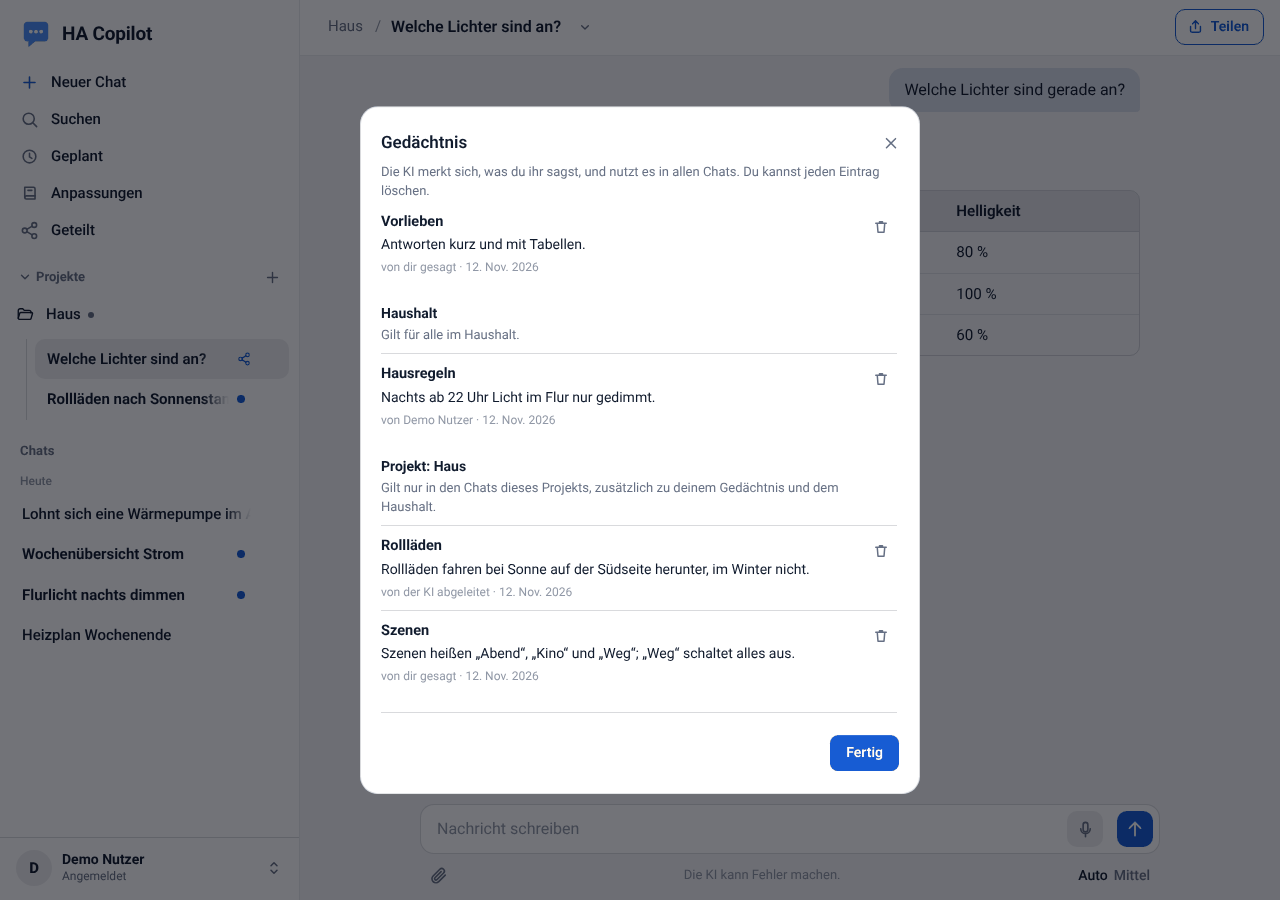
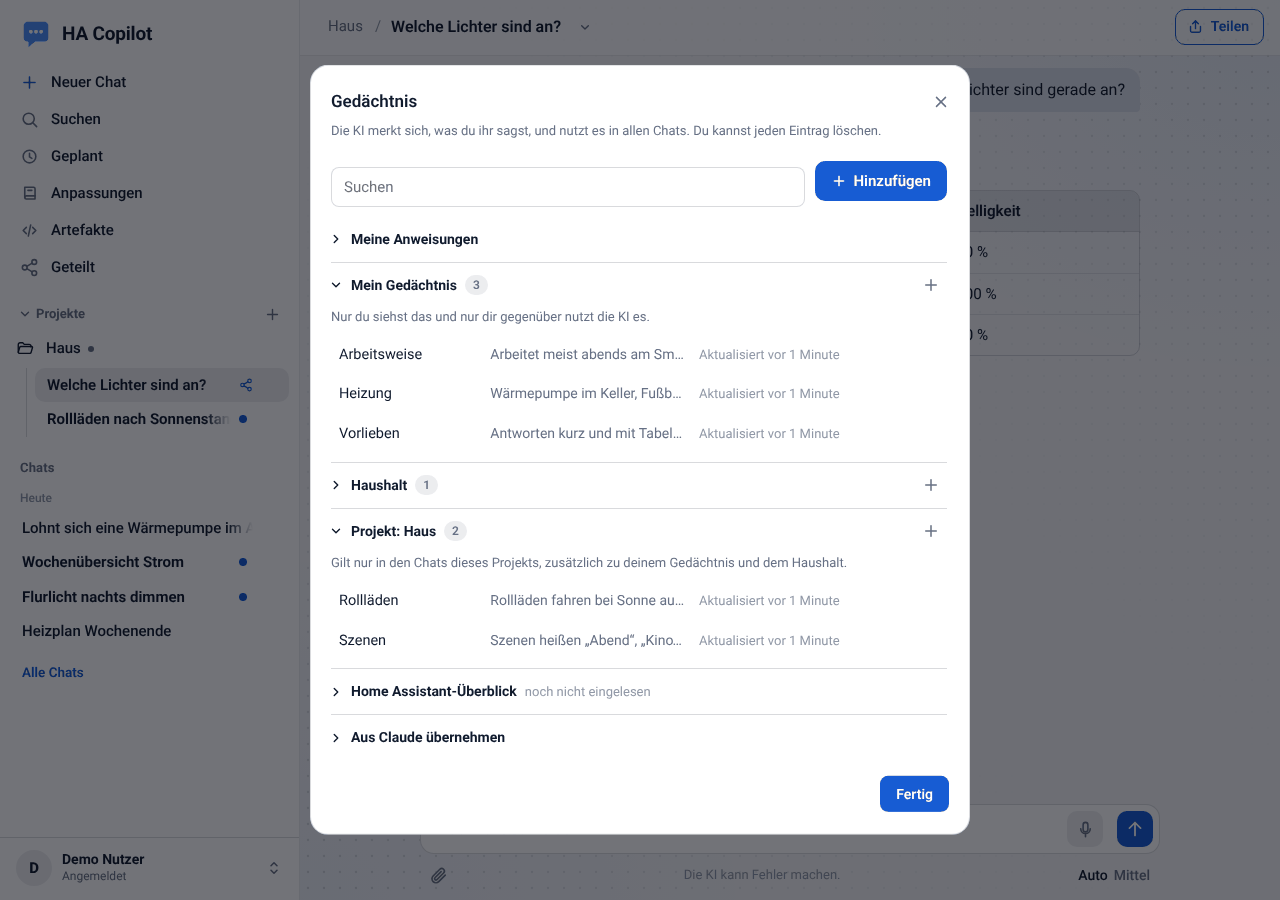
Doku: Screenshots auf Stand gebracht, neue Aufnahme der Projektansicht (0.60.3)
Gedächtnis, Gedächtnis im Projekt und Suche neu aufgenommen, projektansicht.png neu
in docs/funktionen.md. Aufnahme-Skripte angepasst (Beschreibung im Demo-Projekt,
Willkommensfenster schließen, Gedächtnis über die Suche öffnen).

Claude-Session: https://claude.ai/code/session_012H4RFtPYg4WGjcVxpmDwqL

diff --git a/tools/screenshots/capture_features.py b/tools/screenshots/capture_features.py
@@ -10,6 +10,12 @@ api("POST", "/api/schedules", {"name": "Morgenüberblick", "prompt": "Fasse jede
 api("POST", "/api/schedules", {"name": "Wochenbericht Strom", "prompt": "Fasse den Stromverbrauch der Woche zusammen und nenne Auffälligkeiten.", "freq": "weekly", "at": "18:00", "days": "4", "notify": "chat"})
 api("POST", "/api/schedules", {"name": "Erinnerung Filterwechsel", "prompt": "Erinnere mich an den Filterwechsel der Lüftung.", "freq": "monthly", "at": "09:00", "days": "1", "notify": "chat", "enabled": False})
 
+def calm(fr):
+    """Fenster „Das kann ich“ / „Das ist neu“ schließen, das eine frisch gestartete Demo-App einmal zeigt."""
+    for _ in range(3):
+        if fr.locator("#sheet-scrim.show").count():
+            pg.keyboard.press("Escape"); pg_wait(500)
+
 def account_item(fr, text):
     fr.locator("#account").click(); pg_wait(400)
     fr.locator("button:visible", has_text=text).first.click(); pg_wait(1200)
@@ -19,17 +25,20 @@ with sync_playwright() as p:
     c = ctx(b, 1440, 860, "light"); pg = c.new_page()
     pg_wait = pg.wait_for_timeout
     pg.goto(HA + "/ha-copilot-panel"); pg.wait_for_timeout(5000)
-    fr = pg.frame_locator("iframe")
+    fr = pg.frame_locator("iframe"); calm(fr)
     # Einrichtungsprüfung
     pg.set_viewport_size({"width": 1440, "height": 1040}); pg.wait_for_timeout(600)
     account_item(fr, "Einrichtungsprüfung")
     pg.screenshot(path=f"{OUT}/einrichtungspruefung.png")
     pg.set_viewport_size({"width": 1440, "height": 860}); pg.wait_for_timeout(400)
-    fr.locator("#sheet-ok").click(); pg.wait_for_timeout(400)
-    # Gedächtnis
-    account_item(fr, "Gedächtnis")
+    pg.keyboard.press("Escape"); pg.wait_for_timeout(400)
+    # Gedächtnis (öffnet über die Suche; die Gruppen sind seit 0.59.5 eingeklappt, „Mein Gedächtnis“ ist offen)
+    fr.locator("#nav-search").click(); pg.wait_for_timeout(500)
+    pg.keyboard.type("Gedächtnis", delay=40); pg.wait_for_timeout(700)
+    fr.locator(".srch-item", has_text="Gedächtnis").first.click(); pg.wait_for_timeout(1200)
+    pg.mouse.move(1380, 600); pg.wait_for_timeout(300)
     pg.screenshot(path=f"{OUT}/gedaechtnis.png")
-    fr.locator("#sheet-ok").click(); pg.wait_for_timeout(400)
+    pg.keyboard.press("Escape"); pg.wait_for_timeout(500)
     # Suche
     fr.locator("#nav-search").click(); pg.wait_for_timeout(500)
     pg.keyboard.type("licht", delay=60); pg.wait_for_timeout(1200)

diff --git a/tools/screenshots/capture_neu.py b/tools/screenshots/capture_neu.py
@@ -1,4 +1,4 @@
-"""Bilder zu den Funktionen ab 0.56.0: Sprechen, Inkognito, Kopfzeile und Teilen (Fenster mit Link, „Geteilt“, öffentliche Seite), Deep Research, Projektwissen, Gedächtnis.
+"""Bilder zu den Funktionen ab 0.56.0: Sprechen, Inkognito, Kopfzeile und Teilen (Fenster mit Link, „Geteilt“, öffentliche Seite), Deep Research, Projektansicht, Projektwissen, Gedächtnis.
 
 Braucht die frisch gestartete Demo-App (``demo_addon.py``, Port 8099, öffentliche Seite auf 8097). Aufruf: ``python capture_neu.py docs/screenshots``.
 Die Demo-App danach neu starten: Das Skript legt Freigaben und einen Recherche-Lauf an.
@@ -105,6 +105,12 @@ with sync_playwright() as p:
     pg.screenshot(path=f"{OUT}/deep-research-bericht.png")
     c.close()
 
+    # --- Projektansicht (seit 0.60.0): Beschreibung, Eingabefeld, Chats des Projekts
+    c = context(b, ME, 1280, 900); pg = start(c)
+    pg.locator(".project-row", has_text="Haus").first.click(); pg.wait_for_selector(".project-main"); pg.mouse.move(1100, 700); pg.wait_for_timeout(900)
+    pg.screenshot(path=f"{OUT}/projektansicht.png")
+    c.close()
+
     # --- Projektwissen (Originale, KI-Notizen) und Gedächtnis (Projekt, Herkunft)
     c = context(b, ME, 1280, 900); pg = start(c)
     pg.locator(".project-row", has_text="Haus").first.hover()
@@ -114,8 +120,8 @@ with sync_playwright() as p:
     pg.keyboard.press("Escape"); pg.wait_for_timeout(400); calm(pg)
     open_chat(pg, "Haus", "Lichter")
     action(pg, "Gedächtnis")
-    pg.locator("text=Projekt: Haus").first.scroll_into_view_if_needed(); pg.wait_for_timeout(300)
-    pg.locator("#sheet-panel").evaluate("el => { const t = [...el.querySelectorAll('*')].find((e) => e.scrollHeight > e.clientHeight + 20 && getComputedStyle(e).overflowY !== 'visible'); if (t) t.scrollTop += 220; }"); pg.wait_for_timeout(300)
+    pg.locator("#sheet-panel button:visible, #sheet-panel summary:visible, #sheet-panel [role=button]:visible", has_text="Projekt: Haus").first.click(); pg.wait_for_timeout(500)  # Gruppe aufklappen (ab 0.59.5 eingeklappt)
+    pg.mouse.move(1100, 120); pg.wait_for_timeout(300)
     pg.screenshot(path=f"{OUT}/gedaechtnis-projekt.png")
     c.close()
     b.close()

diff --git a/tools/screenshots/demo_addon.py b/tools/screenshots/demo_addon.py
@@ -139,6 +139,7 @@ if os.environ.get("DEMO_ADMIN"):  # Verbrauchsübersicht „Alle Personen“ mit
     for pid, tin, tout, cost, img in (("demo", 820_000, 140_000, 3.1, 3), ("sam", 260_000, 60_000, 0.9, 0)):
         store.usage_add(pid, "claude", "claude-sonnet-5-5", tokens_in=tin, tokens_out=tout, cost_usd=cost, images=img)
 p = store.create_project(U, "Haus" if LANG == "de" else "House")
+store.set_project_description(U, p["id"], "Alles rund ums Smarthome: Licht, Rollläden und Heizung im Haus." if LANG == "de" else "Everything about the smart home: lights, blinds and heating.")
 
 c1 = store.create_chat(U, "Welche Lichter sind an?" if LANG == "de" else "Which lights are on?", p["id"])
 if LANG == "de":

diff --git a/docs/funktionen.md b/docs/funktionen.md
@@ -54,6 +54,8 @@ Mehr: [Inkognito-Chat](../copilot/DOCS.md#inkognito-chat-ab-0560), [Chats teilen
 - **Projekte** ordnen Chats und tragen **Anweisungen** (bis 4000 Zeichen), die in jedem Chat des Projekts mitgehen. Zu einem Projekt kannst du **Wissen** hochladen (Notizen, Word, Excel, PDF, ZIP); die KI liest bei Bedarf nach. Auf Wunsch („speichere das im Projektwissen“) schreibt sie auch selbst Notizen dazu, im Ordner `KI/`; deine hochgeladenen Dateien ändert sie nie. Hochgeladene Dateien bleiben als **Original** erhalten und lassen sich wieder herunterladen; unter einer erzeugten Datei legt **Im Projekt ablegen** sie im Projekt ab (die KI kann das auch selbst). In einem Projekt kennt die KI außerdem die **anderen Chats dieses Projekts** und liest bei Bedarf in ihnen nach („mach mit dem weiter, was wir letzte Woche besprochen haben“).
 ![Projektwissen mit Original und Notiz der KI](screenshots/projekt-wissen.png)
 
+![Projektansicht mit Beschreibung, Eingabefeld und den Chats des Projekts](screenshots/projektansicht.png)
+
 - **Suchen** (Strg/Cmd+Umschalt+F) durchsucht Titel und Nachrichten aller deiner Chats, ohne Rücksicht auf Groß- und Kleinschreibung und Umlaute. Schon vor der ersten Eingabe zeigt das Fenster laufende und zuletzt benutzte Chats; Reiter trennen Chats, Projekte und geplante Aufgaben, Pfeiltasten und Enter genügen zur Bedienung.
 - **Tastenkürzel** am Computer: Strg (Mac: ⌘) + Umschalt + **O** neuer Chat, **F** Suchen, **P** neues Projekt, **G** geplante Aufgaben. Das Kürzel steht in der Seitenleiste erst, wenn du mit der Maus über den Eintrag fährst.
 - **Hinweise über dem Eingabefeld:** Nutzungslimit und Rückfragen der KI (z. B. vor einer Änderung in Home Assistant) erscheinen als Streifen direkt über dem Eingabefeld, wie in Claude selbst, jeweils als eigene schmale Box (nicht am Eingabefeld angebaut).

diff --git a/copilot/CHANGELOG.md b/copilot/CHANGELOG.md
@@ -1,5 +1,11 @@
 # Änderungen
 
+## 0.60.3
+Dokumentation: Bilder auf den aktuellen Stand gebracht, keine Änderung am Programm.
+- **Neue Aufnahmen in `docs/screenshots/`:** `gedaechtnis.png` und `gedaechtnis-projekt.png` zeigen die Gedächtnis-Ansicht seit 0.59.5 (eingeklappte Gruppen, eine Erinnerung = eine Zeile), `suche.png` das Suchfenster mit Reitern und Tastenhinweisen (die Aufnahme stammte noch aus 0.40). Neu ist `projektansicht.png` (Projektseite mit Beschreibung, Eingabefeld, Chats, Anweisungen, Wissen, Gedächtnis); sie steht in `docs/funktionen.md` im Abschnitt „Projekte, Suche, Export“.
+- **Aufnahme-Skripte** (`tools/screenshots/`): `demo_addon.py` legt für das Demo-Projekt „Haus“ eine Beschreibung an; `capture_neu.py` nimmt die Projektansicht auf und klappt im Gedächtnis die Gruppe „Projekt: Haus“ auf; `capture_features.py` schließt das Willkommensfenster einer frischen Demo-App und öffnet das Gedächtnis über die Suche (die Einstellungen sind seit 0.49 ein großes Fenster, Schließen per Esc). README angepasst.
+- Keine Änderung an Server, Oberfläche, Datenbank oder Schnittstellen.
+
 ## 0.60.2
 Projektansicht: das Eingabefeld ist höher.
 - **Mehr Platz im Feld:** Das Eingabefeld oben in der Projektansicht wirkte gequetscht. Der Text steht jetzt in einem Feld für etwa drei Zeilen (`.project-main .composer textarea`: `min-height` 92 px, am Handy 64 px); Senden- und Sprachknopf sitzen wie im Chat unten rechts im Feld. Wächst der Text, wächst das Feld wie gewohnt mit. Reine Darstellung, keine neuen Texte, keine Änderung an Server, Datenbank oder Schnittstellen.

diff --git a/copilot/DOCS.md b/copilot/DOCS.md
@@ -2,7 +2,7 @@
 
 Privater KI-Chat für Home Assistant. Jedes Profil hat eigene Chats, die für andere Profile unsichtbar sind.
 
-**Stand: 0.60.2.** Was in welcher Version neu ist, steht im Reiter „Änderungsprotokoll“.
+**Stand: 0.60.3.** Was in welcher Version neu ist, steht im Reiter „Änderungsprotokoll“.
 
 **Schnellzugriff (Dokumentation im Repository, mit Bildern):**
 [Installation](https://github.com/dominikramachers/HA-Copilot/blob/main/docs/installation.md) ·
